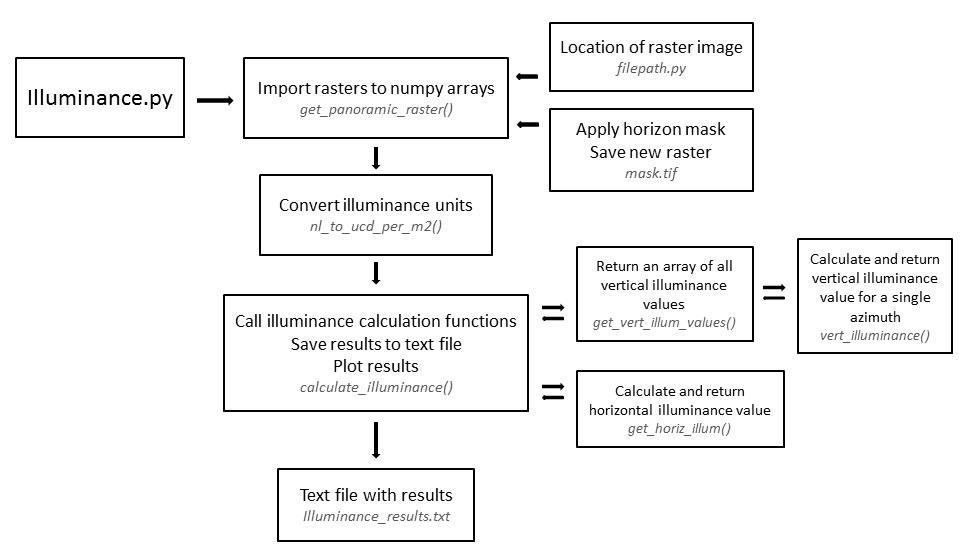
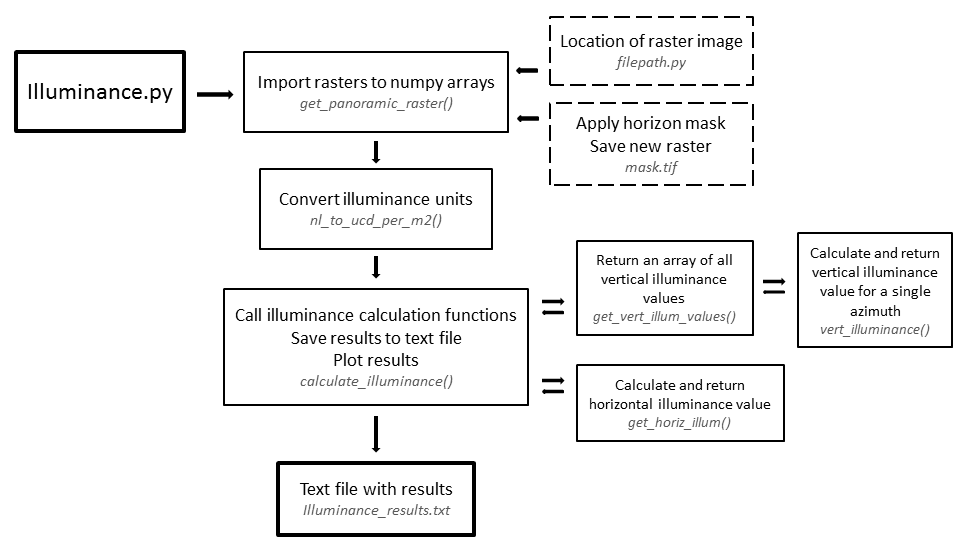
Apply horizon mask; upload equations for readme

diff --git a/Illuminance.py b/Illuminance.py
@@ -3,112 +3,71 @@
 #
 #NPS Night Skies Program
 #
-#Last updated: 2019/02/15
+#Last updated: 2019/03/06
 #
 #This script calculates the horizontal and vertical illuminance from the image 
-#containing all light sources.  
-#	(1) 
-#	(2) 
-#	(3) 
-#   (4) 
-#
-#Note: 
-#
+#containing all light sources. The script does this in the following steps:
+#	(1) Reads the raster into a numpy array, converts units to illuminance in mlx
+#	(2) Horizontal illuminance - applies a horizon mask and then calculates the horizontal illuminance value
+#	(3) Vertical illuminance - calculates vertical illuminance values for azimuth angles 0 to 360 using a specified interval (set to 5)
 #
 #Input: 
-#   (1) 
-#   (2) 
-#   (3) 
+#   (1) filepath.py -- the file name and location of the image on which to calculate metrics
+#   (2) mask.tif -- horizon mask raster image
 #
 #Output:
-#   (1) A txt file (illuminance_results.txt) listing the azimuth angle, vertical illuminance (mlx), and 
-#       horizontal illuminance (mlx)
-#   (2) 
+#   (1) illuminance_results.txt -- a text file with azimuth angle, vertical illuminance, and 
+#       horizontal illuminance values
+#   (2) A plot comparing the results for vertical illuminance from this script to the results from Dan's secondbatchv4.py script
 #
 #History:
 #	Katie Karnes -- Created
 #
 #-----------------------------------------------------------------------------#
 
-#from astropy.io import fits
-#from datetime import datetime as Dtime
-#from glob import glob, iglob
-#from scipy.misc import imsave 
-#from win32com.client import Dispatch
 import archook
 archook.get_arcpy()
 import arcpy
 
-#import pdb
 import matplotlib.pyplot as plt
 import numpy as n
-#import os
-#import shutil
 import sys
 
 # Local Source
 import filepath
-#reload(filepath)
 
 #-----------------------------------------------------------------------------#
 
-#unit conversions
-
-def nl_to_mag(x):
-    """
-    Converting brightness from nL to magnitude according to Dan's script
-    Note: this is inconsistent to mag_to_nL_dan()
-    """
-    m = 26.3308 - 2.5 * n.log10(x)
-    return m
-    
-def mag_to_nl_dan(m):
-    """
-    Converting brightness from magnitude to nL according to Dan's script
-    Note: this is inconsistent to nL_to_mag()
-    """
-    x = 34.08*n.exp(20.7233 - 0.92104 * m)
-    return x
-    
-def mag_to_nl_liwei(m):
-    """
-    Converting brightness from magnitude to nL according to nl_to_mag
-    """
-    x = 10**((26.3308-m)/2.5)
-    return x
-
 def nl_to_ucd_per_m2(nl):
     """
-    Converting brightness from nL to ucd/m^2
+    Unit conversion: converts brightness from nL to ucd/m^2
     """
     ucd_m2 = (10/n.pi)*nl
     return ucd_m2
 
-def get_panoramic_raster(dnight, set, band, raster):
+def get_panoramic_raster(file):
     """    
     This function reads in a raster file and converts it into a Python array. 
     Only area above the horizon is preserved to enforce consistency. This 
     function does not work on full resolution mosaics due to limited memory space.
 
     Arguments:
-    dnight -- data night; i.e. 'FCNA160803'
     set -- data set; i.e. 1 
     band -- filter; either 'V' or 'B'
     raster -- input raster; either 'gal', 'zod', or 'median' but not 'fullres'
 
     Returns:
     A -- a 2D Python array of shape [1800,7200]
+	A_mask -- a 2D Python array of shape [1800,7200]
     """
-    filter = {'V':"",'B':"/B"}
-    path = {'gal':"/gal/galtopmags",
-            'zod':"/zod/zodtopmags",
-            'median':filter[band]+"/median/skybrightmags"}
-
-    # file = filepath.griddata+dnight+"/S_0"+str(set)+path[raster]
-    file = filepath.griddata
     arcpy_raster = arcpy.sa.Raster(file)  
-    A = arcpy.RasterToNumPyArray(arcpy_raster, "#", "#", "#", -9999)[:1800,:7200]
-    return A
+    A = arcpy.RasterToNumPyArray(arcpy_raster, "#", "#", "#", -9999)[:1920,:7200] # for vert illum, crop to za = 96
+	
+    file_mask = file + "_m"
+    arcpy_raster_mask = arcpy.sa.Raster(file_mask)
+    A_mask= arcpy.RasterToNumPyArray(arcpy_raster_mask, "#", "#", "#", -9990)[:1800,:7200]
+	
+    return A, A_mask
 
 def get_horiz_illum(theta, E_i):
     """
@@ -122,9 +81,16 @@ def get_horiz_illum(theta, E_i):
     Returns:
     E_h -- horizontal illuminance value in mlx
     """
-    E_h_arr = E_i * n.cos(theta * n.pi/180) * n.sin(theta * n.pi/180)
-    E_h = round(n.nansum(E_h_arr[E_h_arr > 0]), 9)
-    return E_h
+	# comment on both correction factors here
+    correction_factor = n.cos(n.deg2rad(theta)) * n.sin(n.deg2rad(theta))
+    E_h = E_i * correction_factor
+    # break into two calculations to reduce memory usage
+    E_h1 = E_h[:,0:3600]
+    E_h2 = E_h[:,3600:7201]
+    E_h1 = n.sum(E_h1[E_h1>0])
+    E_h2 = n.sum(E_h2[E_h2>0])
+    E_f = round(E_h1+E_h2, 9)
+    return E_f
 
 def vert_illuminance(phi_0, phi, az, theta, E_i):
     """    
@@ -155,6 +121,9 @@ def vert_illuminance(phi_0, phi, az, theta, E_i):
         indices = n.transpose(n.where((az >= start) & (az <= end)))[:,1]
     selected_arr = E_i[:,indices]
     
+	# for most datasets, shape of selected_arr already matches theta, but in some cases theta may need to be cropped to fit
+    height = n.shape(selected_arr)[0]
+    theta = theta[:height,:]
     # cos(phi) is for angle of incidence along azimuth, first sin(theta) is for angle of incidence along altitude,
     # second sin(theta) is the solid angle correction for each pixel
     E_v_arr = selected_arr * n.cos(n.deg2rad(phi)) * n.sin(n.deg2rad(theta)) * n.sin(n.deg2rad(theta))
@@ -189,7 +158,7 @@ def get_vert_illum_values(az, theta, E_i, interval):
         
     return E_v_arr
 
-def calculate_illuminance(az, theta, E_i, interval):
+def calculate_illuminance(az, theta, theta_96, E_i, E_i_mask, interval):
     """
 	This function calls the functions to calculate both horizontal and vertical illuminance for a single array
 	and creates a text file with those values. The text file is comma-delimited with three columns:
@@ -198,24 +167,26 @@ def calculate_illuminance(az, theta, E_i, interval):
     
     Arguments:
     az -- array of azimuth angles in degrees
-    theta -- array of zenith angles in degrees
+    theta -- array of zenith angles in degrees from 0 to 90
+	theta_96 -- array of zenith angles in degrees from 0 to 96
     E_i -- array of illuminance values in mlx
+	E_i_mask -- array of illuminance values in mlx after applying horizon mask to image
     interval -- azimuth interval (in degrees) at which to calculate vertical illuminance
     
     Returns:
     None
     """
-    E_h = get_horiz_illum(theta, E_i)
-    E_v_arr = get_vert_illum_values(az, theta, E_i, interval)
+    E_h = get_horiz_illum(theta, E_i_mask)
+    E_v_arr = get_vert_illum_values(az, theta_96, E_i, interval)
     
-    output = open("illuminance_results_vertical.txt","w")
+    output = open(filepath.griddata + "\\illuminance_results.txt","w")
     output.write("Azimuth, Vertical Illuminance (mlx), Horizontal Illuminance (mlx)\n")
     azimuth = n.arange(0,360,interval)
     index = n.arange(0, n.size(azimuth), 1)
     
     Katie_data = n.zeros_like(azimuth, dtype=float)
     
-    # changes order from -180-180 to 0-360
+    # changes order from -180-180 to 0-360cr
     midpt = n.size(index)/2
     for i in index:
         if i < midpt:
@@ -226,8 +197,9 @@ def calculate_illuminance(az, theta, E_i, interval):
         output.write('{0}, {1}, {2}\n'.format(azimuth[i], vert_illum, E_h))
     output.close()
 	
-    # plot results for comparison
-    Dan_data = open("Dan_E_v_results.txt").read().splitlines()
+	# For debugging
+    # plot and compare results with Dan's results
+    Dan_data = open(filepath.griddata + "\\Dan_results.txt").read().splitlines()
     Dan_data[:] = [float(line) for line in Dan_data]
     D, = plt.plot(n.arange(0,360,5), Dan_data, 'b.')
     K, = plt.plot(azimuth, Katie_data, 'r.')
@@ -238,25 +210,47 @@ def calculate_illuminance(az, theta, E_i, interval):
     plt.show()
 
 # specify data to run
-dnight = 'FCNA160803'
-dset = 1
-band = 'V'
-raster = 'median'
+raster_filepath = filepath.griddata + "\\skybrightnl"
+
+# # for future use:
+# set = 1
+# band = 'V'
+# raster = 'median'
+# filter = {'V':"",'B':"/B"}
+# path = {'gal':"/gal/galtopmags",
+        # 'zod':"/zod/zodtopmags",
+        # 'median':filter[band]+"/median/skybrightmags"}
+# raster_filepath = filepath.griddata+"/S_0"+str(set)+path[raster]
+
+# apply horizon mask using arcpy
+arcpy.CheckOutExtension("spatial")
+# arcpy.env.workspace = "C:/Users/kkarnes/PythonScripts"
+output = arcpy.sa.SetNull(filepath.griddata+"\\mask.tif", raster_filepath, "Value = 0")
+arcpy.env.overwriteOutput = True
+output.save(raster_filepath + "_m")
 
 # get array with median mosaic sky brightness values in nL from raster, then convert units
-medianMosaicArr = get_panoramic_raster(dnight, dset, band, raster)
-medianMosaicArr_ucd = nl_to_ucd_per_m2(medianMosaicArr)
+medianMosaicArr, medianMosaicArr_mask = get_panoramic_raster(raster_filepath)
+medianMosaicArr = nl_to_ucd_per_m2(medianMosaicArr)
+medianMosaicArr_mask = nl_to_ucd_per_m2(medianMosaicArr_mask)
 
 # create arrays of theta (zenith angle) and azimuth coordinates
 sky_coords = n.ogrid[0:90:1800j,-180:180:7200j]
 theta = sky_coords[0]
 az = sky_coords[1]
 
+sky_coords_za96 = n.ogrid[0:96:1920j,-180:180:7200j]
+theta_96 = sky_coords_za96[0]
+
 # calculate solid angle in square radians, then illuminance in mlx
 solid_angle = (n.deg2rad(0.05))**2
-E_i = medianMosaicArr_ucd * solid_angle / 1000
+E_i = medianMosaicArr * solid_angle / 1000
+E_i_mask = medianMosaicArr_mask * solid_angle / 1000
 
-calculate_illuminance(az, theta, E_i, 5)
+# set the interval for azimuth angles at which to calculate vertical illuminance
+interval = 5
+
+calculate_illuminance(az, theta, theta_96, E_i, E_i_mask, interval)
 
 sys.exit()
 
